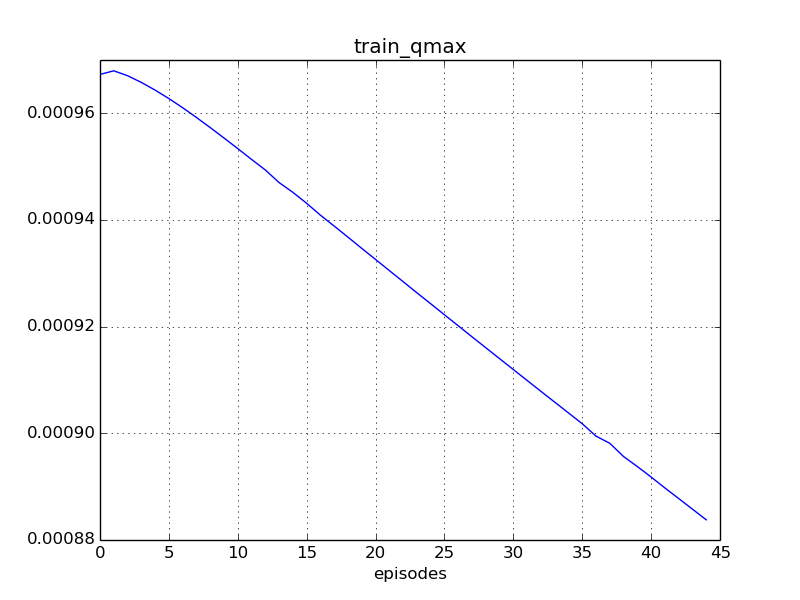
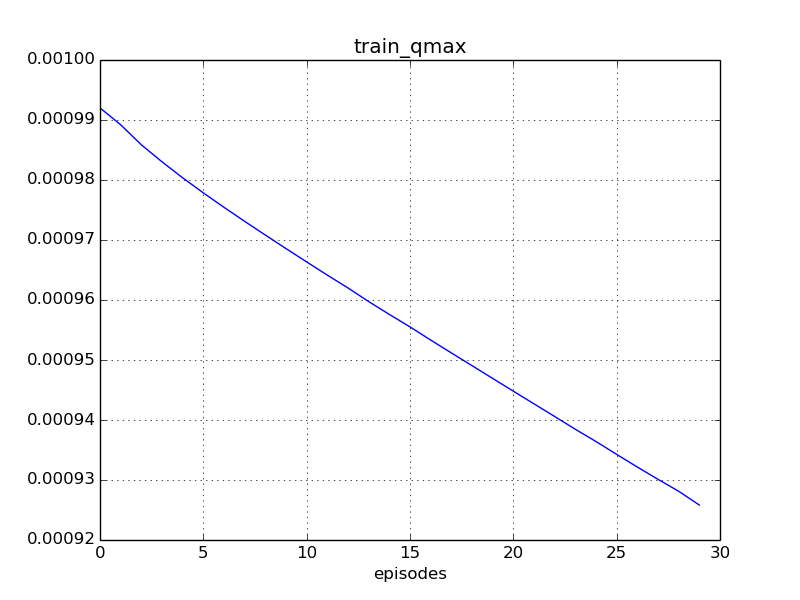
refactored alg.train

diff --git a/zoo/scorpion/experiments/train_tentacle/reporter/report.html b/zoo/scorpion/experiments/train_tentacle/reporter/report.html
@@ -2,10 +2,10 @@
 <font color=red><pre>
   Reward:        0
   Qmax:          0
-  Left:          24:34:10 (0%)
+  Left:          23:45:09 (0%)
 </pre></font>
 <font color=#AAAAAA><pre>
-  Report time:   2017-01-15 10:31:37
+  Report time:   2017-01-15 11:27:43
   Host name:     bernard
 </pre></font>
 <h2>Configuration</h2>
@@ -92,28 +92,28 @@ Experiment:
     actuators: 
       no
     observations: 
-      sensor: world.scorpion.sensor_head_pos=[+1.64]
-      sensor: world.scorpion.sensor_head_vel=[-0.0251]
-      inputs: world.scorpion.inputs_ball_x=[+3.17]
-      inputs: world.scorpion.inputs_ball_y=[+4.41]
+      sensor: world.scorpion.sensor_head_pos=[-0.00791]
+      sensor: world.scorpion.sensor_head_vel=[-0.00822]
+      inputs: world.scorpion.inputs_ball_x=[+2.51]
+      inputs: world.scorpion.inputs_ball_y=[+0.000776]
       inputs: world.scorpion.inputs_ball_z=[-4.8]
-      sensor: world.scorpion.tentacle.sensor_s1_pos=[+1.11]
-      sensor: world.scorpion.tentacle.sensor_s1_vel=[-0.0917]
-      sensor: world.scorpion.tentacle.sensor_s2_pos=[+2.12]
-      sensor: world.scorpion.tentacle.sensor_s2_vel=[-0.033]
-      sensor: world.scorpion.tentacle.sensor_s3_pos=[+2.65]
-      sensor: world.scorpion.tentacle.sensor_s3_vel=[+0.151]
-      inputs: world.scorpion.tentacle.inputs_target_x=[-0.535]
-      inputs: world.scorpion.tentacle.inputs_target_z=[+0.523]
-      sensor: world.scorpion.target.sensor_x=[-0.535]
-      sensor: world.scorpion.target.sensor_z=[+0.523]
-      sensor: world.ball.sensor_x=[+3.17]
-      sensor: world.ball.sensor_y=[+4.41]
+      sensor: world.scorpion.tentacle.sensor_s1_pos=[-1.23]
+      sensor: world.scorpion.tentacle.sensor_s1_vel=[+0.239]
+      sensor: world.scorpion.tentacle.sensor_s2_pos=[-0.523]
+      sensor: world.scorpion.tentacle.sensor_s2_vel=[-1.97]
+      sensor: world.scorpion.tentacle.sensor_s3_pos=[-1.83]
+      sensor: world.scorpion.tentacle.sensor_s3_vel=[-9.6]
+      inputs: world.scorpion.tentacle.inputs_target_x=[+0.646]
+      inputs: world.scorpion.tentacle.inputs_target_z=[+0.98]
+      sensor: world.scorpion.target.sensor_x=[+0.646]
+      sensor: world.scorpion.target.sensor_z=[+0.98]
+      sensor: world.ball.sensor_x=[+2.51]
+      sensor: world.ball.sensor_y=[+0.000776]
       sensor: world.ball.sensor_z=[-4.8]
-      sensor: world.ball.sensor_vx=[+0.000253]
-      sensor: world.ball.sensor_vy=[+0.000342]
-      sensor: world.ball.sensor_vz=[+5.46e-14]
-      sensor: world.ball.sensor_accelerometer=[-3.75e-14,-2.15e-14,+9.81]
+      sensor: world.ball.sensor_vx=[-0.000363]
+      sensor: world.ball.sensor_vy=[+0.000467]
+      sensor: world.ball.sensor_vz=[+0.00106]
+      sensor: world.ball.sensor_accelerometer=[+0.00011,+0.0842,+9.78]
     mind: TensorflowMind:
       algorithm: DummyAlgorithm:
         obs_dim: 24
@@ -121,7 +121,7 @@ Experiment:
     agents: 
       world.scorpion: ScorpionAgent:
         model_path: ./assets/scorpion.xml
-        alg_obs: [1.6404373136003918, -0.025110369498974595, 3.1680459230054856, 4.4070842099992991, -4.7990051833843479, 1.1051536993492976, -0.091656221296920193, 2.1228637619235129, -0.032961694756962992, 2.6543309327644824, 0.15053222218842316, -0.53484547983950914, 0.5233258095620692, -0.53484547983950914, 0.5233258095620692] 
+        alg_obs: [-0.0079139529146595288, -0.008219880658129796, 2.5126891899559256, 0.00077586146443716242, -4.7990297879069672, -1.2326374547291563, 0.23919439202758519, -0.52338428006937154, -1.972446342511931, -1.833257850592739, -9.5990998504605916, 0.64557905476441713, 0.98038189286937638, 0.64557905476441713, 0.98038189286937638] 
         alg_obs_dim: 15
         alg_act_dim: 3
         sensors: 
@@ -132,21 +132,21 @@ Experiment:
           world.scorpion.actuator_target_x [-2 +2]
           world.scorpion.actuator_target_z [-1 +2]
         observations: 
-          sensor: world.scorpion.sensor_head_pos=[+1.64]
-          sensor: world.scorpion.sensor_head_vel=[-0.0251]
-          inputs: world.scorpion.inputs_ball_x=[+3.17]
-          inputs: world.scorpion.inputs_ball_y=[+4.41]
+          sensor: world.scorpion.sensor_head_pos=[-0.00791]
+          sensor: world.scorpion.sensor_head_vel=[-0.00822]
+          inputs: world.scorpion.inputs_ball_x=[+2.51]
+          inputs: world.scorpion.inputs_ball_y=[+0.000776]
           inputs: world.scorpion.inputs_ball_z=[-4.8]
-          sensor: world.scorpion.tentacle.sensor_s1_pos=[+1.11]
-          sensor: world.scorpion.tentacle.sensor_s1_vel=[-0.0917]
-          sensor: world.scorpion.tentacle.sensor_s2_pos=[+2.12]
-          sensor: world.scorpion.tentacle.sensor_s2_vel=[-0.033]
-          sensor: world.scorpion.tentacle.sensor_s3_pos=[+2.65]
-          sensor: world.scorpion.tentacle.sensor_s3_vel=[+0.151]
-          inputs: world.scorpion.tentacle.inputs_target_x=[-0.535]
-          inputs: world.scorpion.tentacle.inputs_target_z=[+0.523]
-          sensor: world.scorpion.target.sensor_x=[-0.535]
-          sensor: world.scorpion.target.sensor_z=[+0.523]
+          sensor: world.scorpion.tentacle.sensor_s1_pos=[-1.23]
+          sensor: world.scorpion.tentacle.sensor_s1_vel=[+0.239]
+          sensor: world.scorpion.tentacle.sensor_s2_pos=[-0.523]
+          sensor: world.scorpion.tentacle.sensor_s2_vel=[-1.97]
+          sensor: world.scorpion.tentacle.sensor_s3_pos=[-1.83]
+          sensor: world.scorpion.tentacle.sensor_s3_vel=[-9.6]
+          inputs: world.scorpion.tentacle.inputs_target_x=[+0.646]
+          inputs: world.scorpion.tentacle.inputs_target_z=[+0.98]
+          sensor: world.scorpion.target.sensor_x=[+0.646]
+          sensor: world.scorpion.target.sensor_z=[+0.98]
         mind: TensorflowMind:
           algorithm: DummyAlgorithm:
             obs_dim: 15
@@ -154,7 +154,7 @@ Experiment:
         agents: 
           world.scorpion.tentacle: MujocoAgent          >>>> training <<<<:
             model_path: ./assets/tentacle.xml
-            alg_obs: [1.1051536993492976, -0.091656221296920193, 2.1228637619235129, -0.032961694756962992, 2.6543309327644824, 0.15053222218842316, -0.53484547983950914, 0.5233258095620692] 
+            alg_obs: [-1.2326374547291563, 0.23919439202758519, -0.52338428006937154, -1.972446342511931, -1.833257850592739, -9.5990998504605916, 0.64557905476441713, 0.98038189286937638] 
             alg_obs_dim: 8
             alg_act_dim: 3
             sensors: 
@@ -169,27 +169,27 @@ Experiment:
               world.scorpion.tentacle.actuator_s2 [-1500 +1500]
               world.scorpion.tentacle.actuator_s3 [-500 +500]
             observations: 
-              sensor: world.scorpion.tentacle.sensor_s1_pos=[+1.11]
-              sensor: world.scorpion.tentacle.sensor_s1_vel=[-0.0917]
-              sensor: world.scorpion.tentacle.sensor_s2_pos=[+2.12]
-              sensor: world.scorpion.tentacle.sensor_s2_vel=[-0.033]
-              sensor: world.scorpion.tentacle.sensor_s3_pos=[+2.65]
-              sensor: world.scorpion.tentacle.sensor_s3_vel=[+0.151]
-              inputs: world.scorpion.tentacle.inputs_target_x=[-0.535]
-              inputs: world.scorpion.tentacle.inputs_target_z=[+0.523]
+              sensor: world.scorpion.tentacle.sensor_s1_pos=[-1.23]
+              sensor: world.scorpion.tentacle.sensor_s1_vel=[+0.239]
+              sensor: world.scorpion.tentacle.sensor_s2_pos=[-0.523]
+              sensor: world.scorpion.tentacle.sensor_s2_vel=[-1.97]
+              sensor: world.scorpion.tentacle.sensor_s3_pos=[-1.83]
+              sensor: world.scorpion.tentacle.sensor_s3_vel=[-9.6]
+              inputs: world.scorpion.tentacle.inputs_target_x=[+0.646]
+              inputs: world.scorpion.tentacle.inputs_target_z=[+0.98]
             mind: TensorflowMind:
               algorithm: DDPG_PeterKovacs
                 obs_dim: 8
                 act_dim: 3
                 buffer: ReplayBuffer:
                   buffer_size: 100000
-                  num_experiences: 6750
-                episode: 44
+                  num_experiences: 4500
+                episode: 29
             agents: 
               no
           world.scorpion.target: MujocoAgent:
             model_path: ./assets/target.xml
-            alg_obs: [-0.53484547983950914, 0.5233258095620692] 
+            alg_obs: [0.64557905476441713, 0.98038189286937638] 
             alg_obs_dim: 2
             alg_act_dim: 0
             sensors: 
@@ -198,8 +198,8 @@ Experiment:
             actuators: 
               no
             observations: 
-              sensor: world.scorpion.target.sensor_x=[-0.535]
-              sensor: world.scorpion.target.sensor_z=[+0.523]
+              sensor: world.scorpion.target.sensor_x=[+0.646]
+              sensor: world.scorpion.target.sensor_z=[+0.98]
             mind: TensorflowMind:
               algorithm: DummyAlgorithm:
                 obs_dim: 2
@@ -208,7 +208,7 @@ Experiment:
               no
       world.ball: MujocoAgent:
         model_path: ./assets/ball.xml
-        alg_obs: [3.1680459230054856, 4.4070842099992991, -4.7990051833843479, 0.00025298418430719146, 0.00034163021641784257, 5.4609356841690121e-14, -3.752540270705873e-14, -2.1467460513228953e-14, 9.8100000000000058] 
+        alg_obs: [2.5126891899559256, 0.00077586146443716242, -4.7990297879069672, -0.00036269237793844613, 0.00046689708640534682, 0.0010610973019698927, 0.00010951377564292298, 0.084160976511857166, 9.7763821118237946] 
         alg_obs_dim: 9
         alg_act_dim: 0
         sensors: 
@@ -222,13 +222,13 @@ Experiment:
         actuators: 
           no
         observations: 
-          sensor: world.ball.sensor_x=[+3.17]
-          sensor: world.ball.sensor_y=[+4.41]
+          sensor: world.ball.sensor_x=[+2.51]
+          sensor: world.ball.sensor_y=[+0.000776]
           sensor: world.ball.sensor_z=[-4.8]
-          sensor: world.ball.sensor_vx=[+0.000253]
-          sensor: world.ball.sensor_vy=[+0.000342]
-          sensor: world.ball.sensor_vz=[+5.46e-14]
-          sensor: world.ball.sensor_accelerometer=[-3.75e-14,-2.15e-14,+9.81]
+          sensor: world.ball.sensor_vx=[-0.000363]
+          sensor: world.ball.sensor_vy=[+0.000467]
+          sensor: world.ball.sensor_vz=[+0.00106]
+          sensor: world.ball.sensor_accelerometer=[+0.00011,+0.0842,+9.78]
         mind: TensorflowMind:
           algorithm: DummyAlgorithm:
             obs_dim: 9
@@ -237,19 +237,19 @@ Experiment:
           no
   logger: Logger:
     saved_time: 00:00:00
-    train_history: 45
-    eval_history: 4
+    train_history: 30
+    eval_history: 2
     reporter: Reporter:
       html_path: /home/roman-ml/prj/rmus/zoo/zoo/scorpion/experiments/train_tentacle/reporter/report.html</pre>
 <h2>Progress</h2>
 <pre>
-  Episodes:      45
-  Steps:         6750
-  Total time:    24:36:21
-    spent:       00:02:12 (0%)
-    left:        24:34:09
-  Finish:        11:05:46 2017-01-16
-  Performance:   0.34 per sec
+  Episodes:      30
+  Steps:         4500
+  Total time:    23:46:34
+    spent:       00:01:25 (0%)
+    left:        23:45:09
+  Finish:        11:12:52 2017-01-16
+  Performance:   0.35 per sec
 </pre>
 <h2>Results</h2>
 <pre>

diff --git a/alg/ddpg_peter_kovacs/ddpg_alg.py b/alg/ddpg_peter_kovacs/ddpg_alg.py
@@ -11,7 +11,6 @@ from critic import CriticNetwork
 from core.context import Context
 from utils.ou_noise import OUNoise
 from utils.string_tools import tab
-from utils.trace_tools import trace_var
 
 
 class DDPG_PeterKovacs(TensorflowAlgorithm):
@@ -38,12 +37,7 @@ class DDPG_PeterKovacs(TensorflowAlgorithm):
     def predict(self, s):
         return self.actor.predict([s])
 
-    def train(self, episodes, steps, on_episode):
-        world = Context.world
-        agent = Context.training_agent
-        trace_var(self)
-        trace_var(agent.full_id)
-
+    def train(self, episodes, steps, on_episode_beg, on_episode_end, on_step):
         first_episide = self.episode + 1 if self.episode is not None else 0
         expl = self._create_exploration()
 
@@ -51,7 +45,7 @@ class DDPG_PeterKovacs(TensorflowAlgorithm):
             self.buffer = self._create_buffer()
 
         for self.episode in range(first_episide, episodes + 1):
-            s = self._reset_world_and_get_state(world, agent)
+            s = on_episode_beg()
 
             nrate = self._get_noise_rate(self.episode, episodes)
             reward = 0
@@ -64,7 +58,7 @@ class DDPG_PeterKovacs(TensorflowAlgorithm):
                 # play
                 a = self._make_action(s)
                 a = self._add_noise(a, expl.noise(), nrate)
-                s2, r, done = self._world_agent_step(world, agent, a)
+                s2, r, done = on_step(a)
                 self.buffer.add(s, a, r, s2, done)
                 s = s2
 
@@ -75,30 +69,14 @@ class DDPG_PeterKovacs(TensorflowAlgorithm):
                 self._update_actor(bs)
                 self._update_target_networks()
 
-                # show
-                world.render()
-                qmax.append(q)
+                # statistic
                 reward += r
+                qmax.append(q)
 
                 if done:
                     break
 
-            on_episode(self.episode, reward, nrate, np.mean(qmax))
-
-    # ==================================
-    # todo: refactore, use callbacs
-    @staticmethod
-    def _world_agent_step(world, agent, acts):
-        agent_actions = agent.scale_action(acts)
-        _, r, done, _ = world.step_agent(agent, agent_actions)
-        s = agent.provide_alg_obs()
-        return s, r, done
-
-    @staticmethod
-    def _reset_world_and_get_state(world, agent):
-        world.reset()
-        return agent.provide_alg_obs()
-    # ==================================
+            on_episode_end(self.episode, reward, nrate, np.mean(qmax))
 
     @staticmethod
     def _add_noise(a, n, k):

diff --git a/tf/mind.py b/tf/mind.py
@@ -42,15 +42,30 @@ class TensorflowMind:
         return self.agent.scale_action(a)
 
     def train(self):
-        def on_episod(ep, reward, nr, maxq):
+        def do_episode_beg():
+            self.world.reset()
+            return self.agent.provide_alg_obs()
+
+        def do_episode_end(ep, reward, nr, maxq):
             cf = Context.config
             self._logger.on_train_episode(ep, nr, reward, maxq)
             self._save_results_if_need(ep, cf['exp.episodes'], cf['exp.save_every_episodes'])
             self._evaluate_if_need(ep, cf['mind.evaluate_every_episodes'], cf['exp.steps'])
+
+        def do_step(acts):
+            agent_actions = self.agent.scale_action(acts)
+            _, r, done, _ = self.world.step_agent(self.agent, agent_actions)
+            s = self.agent.provide_alg_obs()
+            self.world.render()
+            return s, r, done
+
         return self.algorithm.train(
             episodes=Context.config['exp.episodes'],
             steps=Context.config['exp.steps'],
-            on_episode=on_episod)
+            on_episode_beg=do_episode_beg,
+            on_episode_end=do_episode_end,
+            on_step=do_step,
+        )
 
     def _evaluate_if_need(self, ep, evs, steps):
         if (ep + 1) % evs == 0:

diff --git a/tf/algorithm.py b/tf/algorithm.py
@@ -31,7 +31,7 @@ class TensorflowAlgorithm(object):
     def predict(self, s):
         raise NotImplementedError
 
-    def train(self, episodes, steps, on_episode):
+    def train(self, episodes, steps, on_episode_beg, on_episode_end, on_step):
         raise NotImplementedError
 
     def save_weights(self, path):

diff --git a/alg/dummy_alg.py b/alg/dummy_alg.py
@@ -11,7 +11,7 @@ class DummyAlgorithm(TensorflowAlgorithm):
     def predict(self, s):
         return np.zeros(shape=[self._act_dim])
 
-    def train(self, episodes, steps, on_episode):
+    def train(self, episodes, steps, **callbacks):
         raise NotImplementedError
 
     def save_weights(self, path):

diff --git a/alg/random_alg.py b/alg/random_alg.py
@@ -15,7 +15,7 @@ class RandomAlgorithm(TensorflowAlgorithm):
     def predict(self, s):
         return self.noise.noise()
 
-    def train(self, episodes, steps, on_episode):
+    def train(self, episodes, steps, **callbacks):
         raise NotImplementedError
 
     def save_weights(self, path):
